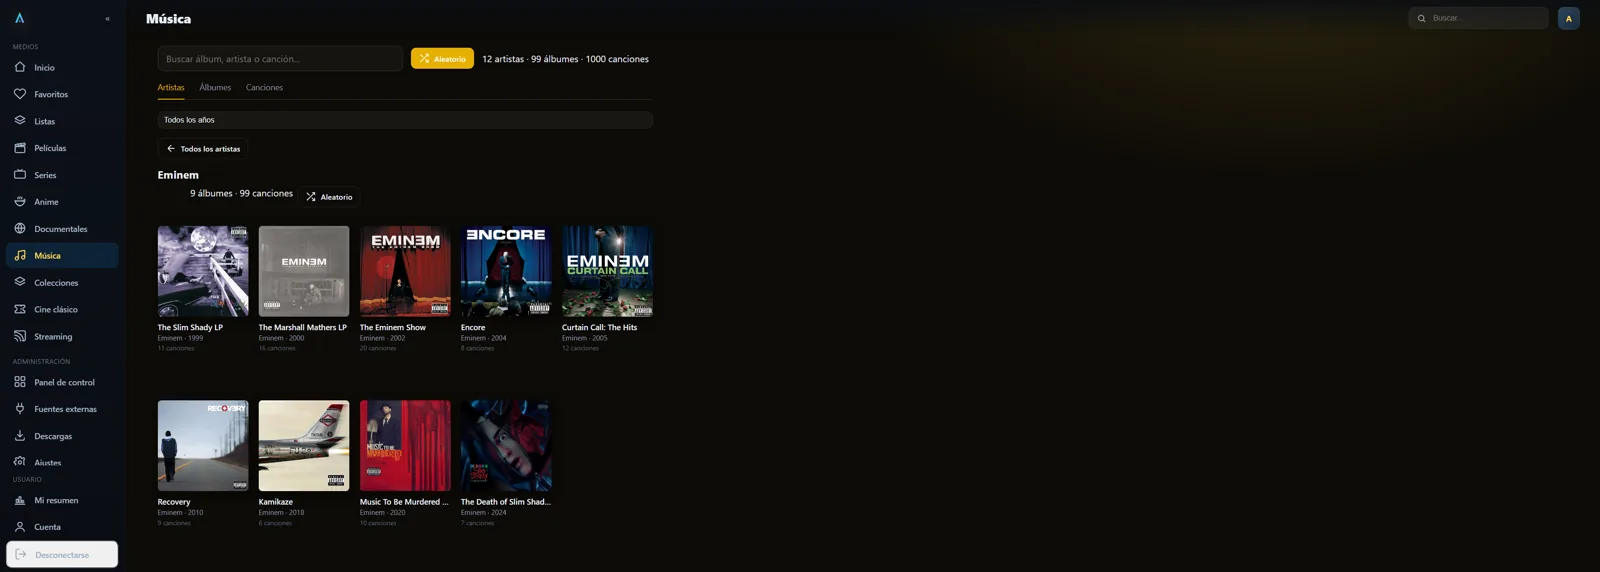
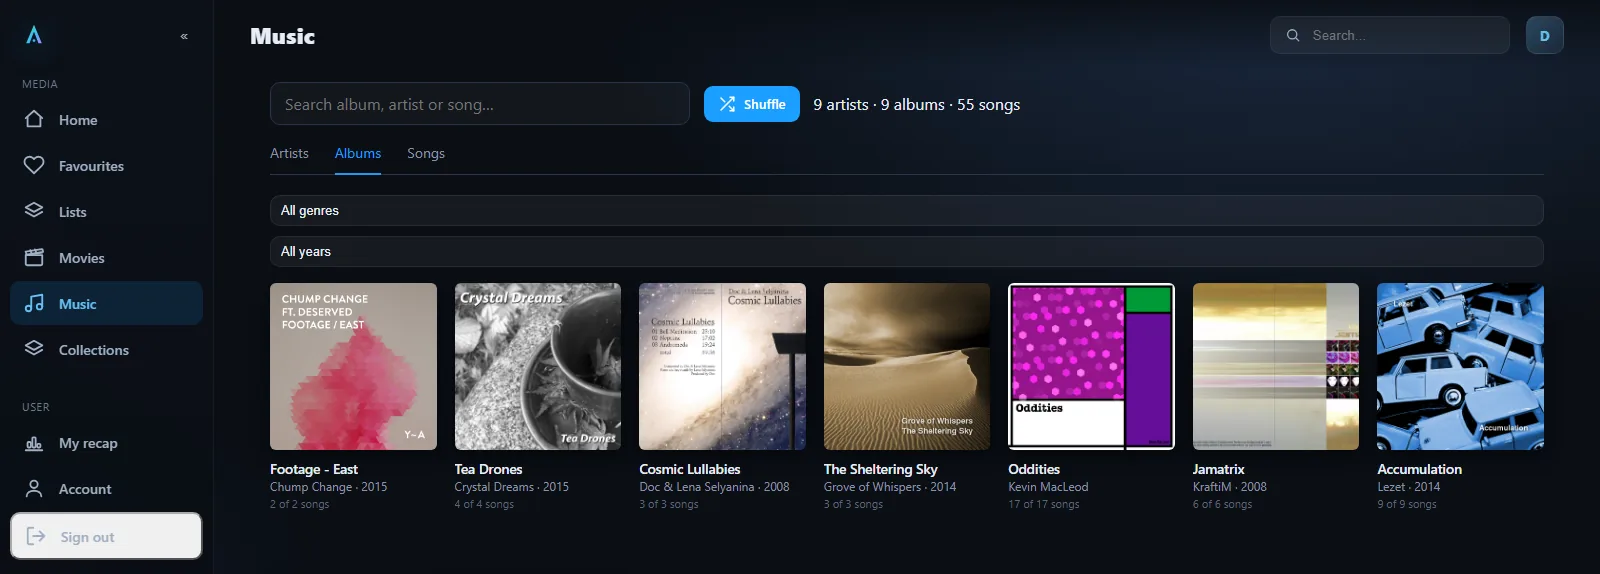
content(site): screenshots of a library that is free to show
The old ones were of a real library: studio posters fetched from TMDB, on a
commercial site, next to a sidebar reading Streaming / External sources /
Downloads. These are of the Blender Foundation's open movies and a few
Creative Commons records, shot as a non-admin account so the sidebar is the
one a viewer would see. Credited under the section, as CC BY asks.

Five screens rather than nine: no series, anime or documentary library can
be built from freely licensed material without it looking thin, and the
collections page had one tile on it. The og image is regenerated from the
new home screen, since the old one carried the same artwork.

diff --git a/landing/index.html b/landing/index.html
@@ -517,49 +517,41 @@ a:focus-visible,button:focus-visible,summary:focus-visible{
       <div class="kicker">A look inside</div>
       <h2>This is the whole thing.</h2>
       <p class="sub">
-        No mock-ups and no staged demo library — these are screens from a running Aurora,
-        pointed at an ordinary folder of files.
+        No mock-ups — these are screens from a running Aurora. The library it is pointed at is the
+        Blender Foundation's open movies and a handful of Creative Commons records, so every poster
+        and sleeve you see here is free to show.
       </p>
     </div>
 
     <div class="shots">
       <figure class="shot wide obs" data-depth="0.05">
-        <img src="shots/inicio.webp" alt="Everything, on one screen" loading="lazy" decoding="async" width="1720" height="720" />
-        <figcaption>The Aurora home: your libraries, what you were part-way through, and whatever landed this week.</figcaption>
+        <img src="shots/inicio.webp" alt="The home screen: continue watching, then what was added recently" loading="lazy" decoding="async" width="1720" height="720" />
+        <figcaption>The Aurora home: what you were part-way through, and whatever landed this week.</figcaption>
       </figure>
       <figure class="shot obs" data-depth="0.1">
-        <img src="shots/peliculas.webp" alt="179 films, nothing typed in by hand" loading="lazy" decoding="async" width="1720" height="720" />
+        <img src="shots/peliculas.webp" alt="A film library, nothing typed in by hand" loading="lazy" decoding="async" width="1720" height="720" />
         <figcaption>Posters, backdrops, ratings and collections, all worked out from the filenames.</figcaption>
-      </figure>
-      <figure class="shot obs" data-depth="0.04">
-        <img src="shots/series.webp" alt="Seasons and episodes, sorted out for you" loading="lazy" decoding="async" width="1720" height="720" />
-        <figcaption>Shows are grouped, numbered and counted, including the ones with awkward numbering.</figcaption>
-      </figure>
-      <figure class="shot obs" data-depth="0.09">
-        <img src="shots/anime.webp" alt="Anime that is filed correctly" loading="lazy" decoding="async" width="1720" height="720" />
-        <figcaption>Absolute numbering, seasonal numbering, movies in the middle of a run: handled.</figcaption>
-      </figure>
-      <figure class="shot obs" data-depth="0.06">
-        <img src="shots/documentales.webp" alt="A shelf per kind of thing" loading="lazy" decoding="async" width="1720" height="720" />
-        <figcaption>Any folder can be its own library, with its own artwork and its own rules.</figcaption>
-      </figure>
-      <figure class="shot obs" data-depth="0.11">
-        <img src="shots/colecciones.webp" alt="Collections it builds itself" loading="lazy" decoding="async" width="1720" height="720" />
-        <figcaption>Sequels and trilogies stack up on their own, so a franchise takes one tile, not nine.</figcaption>
       </figure>
       <figure class="shot obs" data-depth="0.07">
         <img src="shots/musica-artistas.webp" alt="Your records, shelved by artist" loading="lazy" decoding="async" width="1600" height="574" />
         <figcaption>Music opens on artists — and an artist with no photograph anywhere gets one made from their own sleeves.</figcaption>
       </figure>
       <figure class="shot obs" data-depth="0.12">
-        <img src="shots/musica-albumes.webp" alt="Every record an artist made" loading="lazy" decoding="async" width="1600" height="572" />
+        <img src="shots/musica-albumes.webp" alt="Every record, with its year and track count" loading="lazy" decoding="async" width="1600" height="574" />
         <figcaption>Albums, years and track counts read from the files themselves. No music database, nothing typed in.</figcaption>
       </figure>
       <figure class="shot obs" data-depth="0.05">
-        <img src="shots/musica-playing.webp" alt="Playing a record" loading="lazy" decoding="async" width="1600" height="572" />
-        <figcaption>The player follows you around the app, shuffles anything on screen, and says what it is actually decoding.</figcaption>
+        <img src="shots/musica-playing.webp" alt="Playing a record" loading="lazy" decoding="async" width="1600" height="574" />
+        <figcaption>The player follows you around the app and shuffles anything on screen.</figcaption>
       </figure>
     </div>
+    <p class="sub obs" style="font-size:13.5px;margin-top:26px;max-width:none">
+      Shown in the screenshots: <em>Big Buck Bunny</em>, <em>Sintel</em>, <em>Tears of Steel</em>, <em>Elephants Dream</em>,
+      <em>Cosmos Laundromat</em>, <em>Spring</em>, <em>Coffee Run</em>, <em>Charge</em>, <em>Glass Half</em>, <em>Hero</em> and the
+      <em>Caminandes</em> shorts — © Blender Foundation, <a href="https://creativecommons.org/licenses/by/4.0/" rel="noopener">CC BY</a>.
+      Records by Chump Change, Crystal Dreams, Doc &amp; Lena Selyanina, Grove of Whispers, Kevin MacLeod, KraftiM, Lezet, Softspace
+      and Tim Doyle, released under <a href="https://creativecommons.org/licenses/by/3.0/" rel="noopener">CC BY</a> via the Internet Archive.
+    </p>
   </section>
 
   <!-- ============ COMPARE ============ -->
